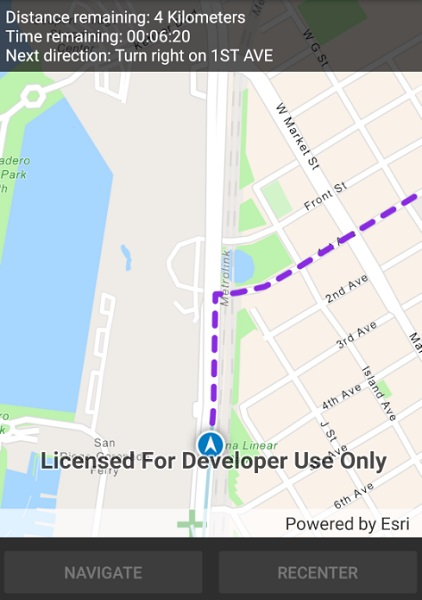
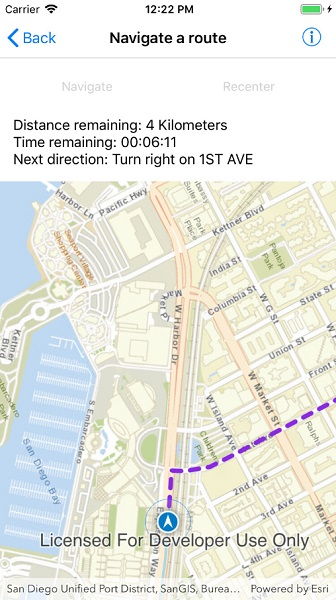
Added Froms updates

diff --git a/src/Forms/Shared/Samples/Network Analysis/NavigateRoute/NavigateRoute.xaml b/src/Forms/Shared/Samples/Network Analysis/NavigateRoute/NavigateRoute.xaml
@@ -24,6 +24,7 @@
                         x:Name="StartNavigationButton"
                         Grid.Column="0"
                         Clicked="StartNavigation"
+                        IsEnabled="False"
                         Text="Navigate" />
                     <Button
                         x:Name="RecenterButton"

diff --git a/src/Forms/Shared/Samples/Network Analysis/NavigateRoute/NavigateRoute.xaml.cs b/src/Forms/Shared/Samples/Network Analysis/NavigateRoute/NavigateRoute.xaml.cs
@@ -31,23 +31,29 @@ namespace ArcGISRuntimeXamarin.Samples.NavigateRoute
     [ArcGISRuntime.Samples.Shared.Attributes.OfflineData()]
     public partial class NavigateRoute : ContentPage, IDisposable
     {
+        // Variables for tracking the navigation route.
         private RouteTracker _tracker;
         private RouteResult _routeResult;
         private Route _route;
 
+        // List of driving directions for the route.
         private IReadOnlyList<DirectionManeuver> _directionsList;
 
+        // Graphics to show progress along the route.
         private Graphic _routeAheadGraphic;
         private Graphic _routeTraveledGraphic;
 
         // San Diego Convention Center.
         private readonly MapPoint _startLocation = new MapPoint(-117.160386727, 32.706608, SpatialReferences.Wgs84);
 
+        //
+        private MapPoint
+
         // RH Fleet Aerospace Museum.
         private readonly MapPoint _destinationLocation = new MapPoint(-117.147230, 32.730467, SpatialReferences.Wgs84);
 
         // Feature service for routing in San Diego.
-        private readonly Uri _routingUri = new Uri("http://sampleserver6.arcgisonline.com/arcgis/rest/services/NetworkAnalysis/SanDiego/NAServer/Route");
+        private readonly Uri _routingUri = new Uri("https://sampleserver6.arcgisonline.com/arcgis/rest/services/NetworkAnalysis/SanDiego/NAServer/Route");
 
         public NavigateRoute()
         {
@@ -60,7 +66,7 @@ namespace ArcGISRuntimeXamarin.Samples.NavigateRoute
             try
             {
                 // Create the map view.
-                MyMapView.Map = new Map(Basemap.CreateNavigationVector());
+                MyMapView.Map = new Map(Basemap.CreateStreets());
 
                 // Create the route task, using the online routing service.
                 RouteTask routeTask = await RouteTask.CreateAsync(_routingUri);
@@ -107,10 +113,13 @@ namespace ArcGISRuntimeXamarin.Samples.NavigateRoute
 
                 // Set the map viewpoint to show the entire route.
                 await MyMapView.SetViewpointGeometryAsync(_route.RouteGeometry, 100);
+
+                // Enable the navigation button.
+                StartNavigationButton.IsEnabled = true;
             }
             catch (Exception e)
             {
-                Console.WriteLine(e.Message);
+                await Application.Current.MainPage.DisplayAlert("Error", e.Message, "OK");
             }
         }
 
@@ -134,7 +143,7 @@ namespace ArcGISRuntimeXamarin.Samples.NavigateRoute
             MyMapView.LocationDisplay.AutoPanModeChanged += AutoPanModeChanged;
 
             // Add a data source for the location display.
-            MyMapView.LocationDisplay.DataSource = new RouteTrackerLocationDataSource(new FakeLocationProvider(_route.RouteGeometry), _tracker);
+            MyMapView.LocationDisplay.DataSource = new RouteTrackerDisplayLocationDataSource(new FakeLocationProvider(_route.RouteGeometry), _tracker);
             // Use this instead if you want real location:
             // MyMapView.LocationDisplay.DataSource = new RouteTrackerLocationDataSource(new SystemLocationDataSource(), _tracker);
 
@@ -217,16 +226,14 @@ namespace ArcGISRuntimeXamarin.Samples.NavigateRoute
         }
     }
 
-    /*
-     * This location data source uses an input data source and a route tracker.
-     * The location source that it updates is based on the snapped-to-route location from the route tracker.
-     */
-    public class RouteTrackerLocationDataSource : LocationDataSource
+    // This location data source uses an input data source and a route tracker.
+    // The location source that it updates is based on the snapped-to-route location from the route tracker.
+    public class RouteTrackerDisplayLocationDataSource : LocationDataSource
     {
         private LocationDataSource _inputDataSource;
         private RouteTracker _routeTracker;
 
-        public RouteTrackerLocationDataSource(LocationDataSource dataSource, RouteTracker routeTracker)
+        public RouteTrackerDisplayLocationDataSource(LocationDataSource dataSource, RouteTracker routeTracker)
         {
             // Set the data source
             _inputDataSource = dataSource ?? throw new ArgumentNullException(nameof(dataSource));

diff --git a/src/Forms/Shared/Samples/Network Analysis/NavigateRoute/FakeLocationProvider.cs b/src/Forms/Shared/Samples/Network Analysis/NavigateRoute/FakeLocationProvider.cs
@@ -1,4 +1,13 @@
-using Esri.ArcGISRuntime.Geometry;
+// Copyright 2019 Esri.
+//
+// Licensed under the Apache License, Version 2.0 (the "License"); you may not use this file except in compliance with the License.
+// You may obtain a copy of the License at: http://www.apache.org/licenses/LICENSE-2.0
+//
+// Unless required by applicable law or agreed to in writing, software distributed under the License is distributed on an
+// "AS IS" BASIS, WITHOUT WARRANTIES OR CONDITIONS OF ANY KIND, either express or implied. See the License for the specific
+// language governing permissions and limitations under the License.
+
+using Esri.ArcGISRuntime.Geometry;
 using Esri.ArcGISRuntime.Location;
 using System.Collections.Generic;
 using System.Threading.Tasks;

diff --git a/src/Forms/Shared/Samples/Network Analysis/NavigateRoute/readme.md b/src/Forms/Shared/Samples/Network Analysis/NavigateRoute/readme.md
@@ -15,7 +15,7 @@ Click 'Navigate' to simulate travelling and to receive directions from a preset 
 ## How it works
 
 1. Create a `RouteTask` using a URL to an online route service.
-2. Generate default `RouteParameters` using `RouteTask.createDefaultParametersAsync()`.
+2. Generate default `RouteParameters` using `RouteTask.CreateDefaultParametersAsync()`.
 3. Set `ReturnStops` and `ReturnDirections` on the parameters to true.
 4. Add `Stop`s to the parameters for each destination using `SetStops(stops)`.
 5. Solve the route using `RouteTask.SolveRouteAsync(routeParameters)` to get a `RouteResult`.
@@ -39,10 +39,6 @@ Click 'Navigate' to simulate travelling and to receive directions from a preset 
 * RouteTracker
 * Stop
 * VoiceGuidance
-
-## Offline data
-
-None
 
 ## About the data
 
